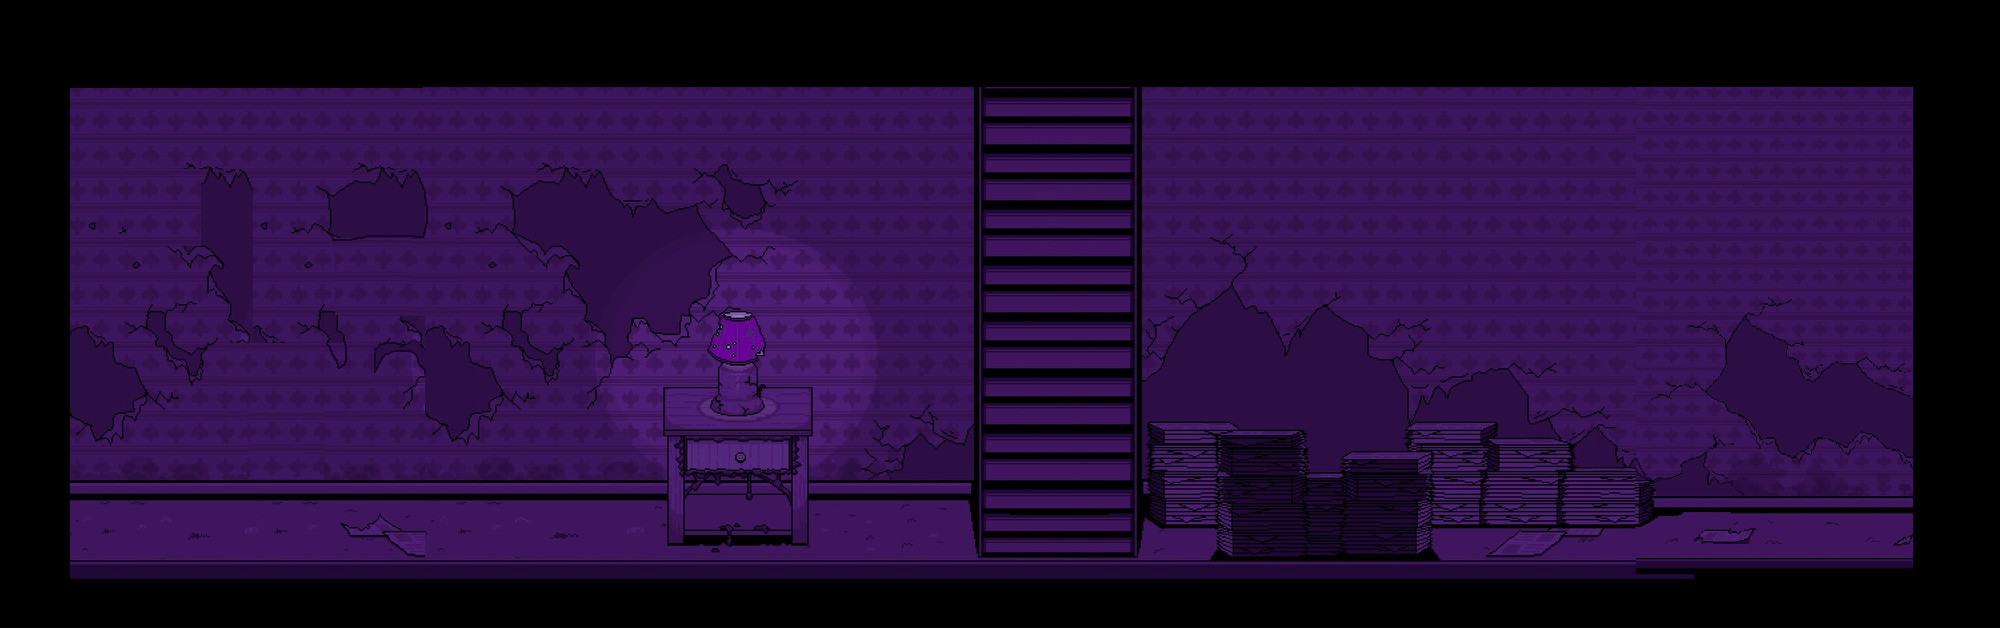
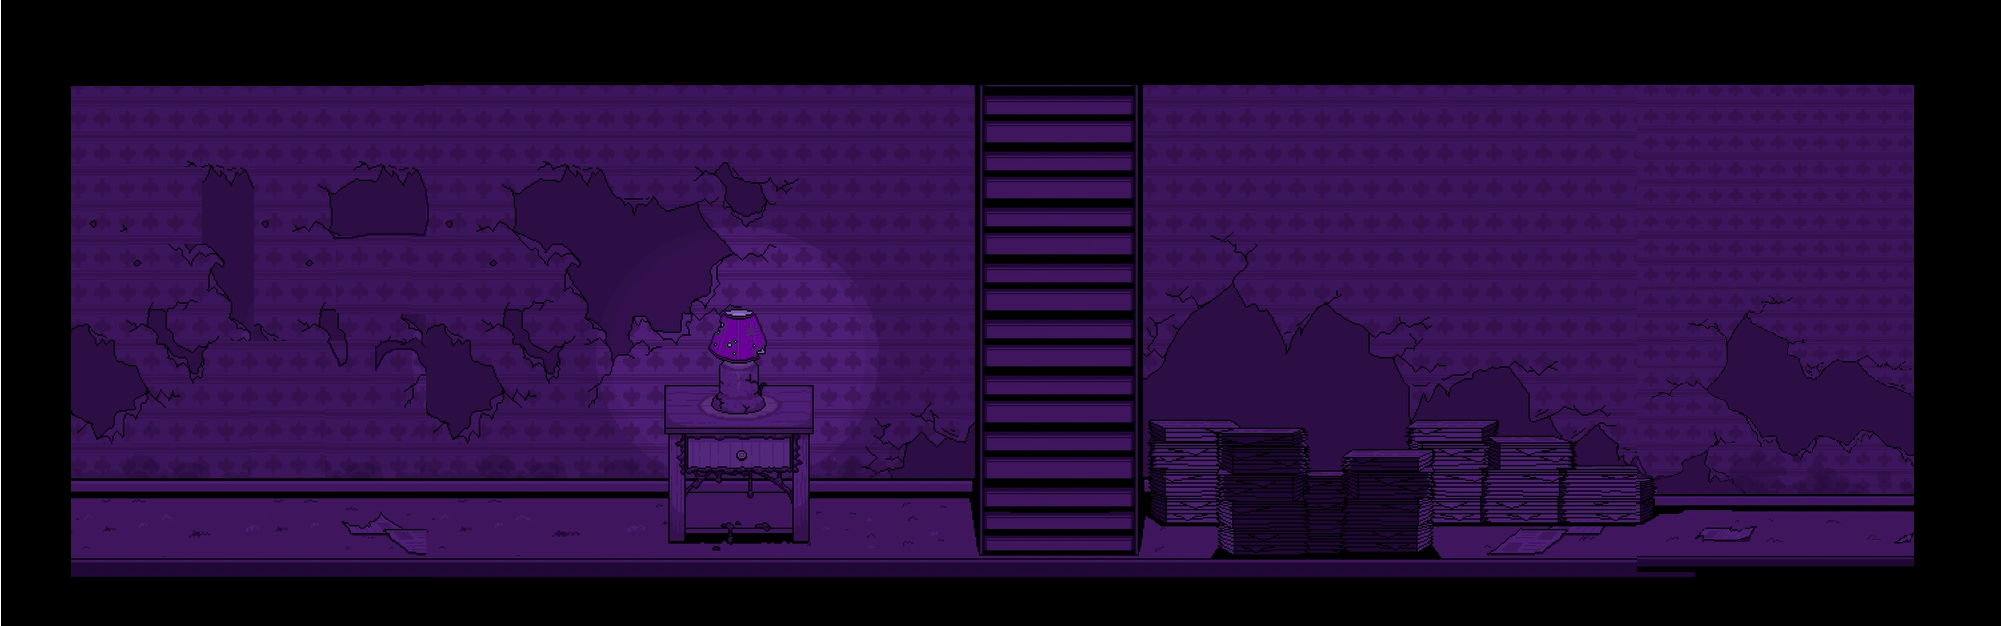
이미지 조정 및 코드 수정

diff --git a/maincode.py b/maincode.py
@@ -12,7 +12,27 @@ class Hall:
         self.image.draw(1400 // 2 - camera_x, 800 // 2-camera_y, self.scaled_width, self.scaled_height)
 
 
-class ExtraImage:
+class Image1:
+    def __init__(self):
+        self.image = load_image('start room1.png')
+        self.width = int(1151*1.2)
+        self.height = int(600*1.2)
+
+    def draw(self, camera_x,camera_y):
+        # Hall 이미지 오른쪽에 추가 이미지가 오도록 위치 조정
+        self.image.draw(1400 // 2 - camera_x - 1000, 800 // 2-camera_y+1000, self.width, self.height)
+
+class Image2:
+    def __init__(self):
+        self.image = load_image('secondroom.png')
+        self.width = int(2000)
+        self.height = int(626)
+
+    def draw(self, camera_x,camera_y):
+        # Hall 이미지 오른쪽에 추가 이미지가 오도록 위치 조정
+        self.image.draw(1400 // 2 - camera_x - 3000, 800 // 2-camera_y, self.width, self.height)
+
+class Image3:
     def __init__(self):
         self.image = load_image('start room1.png')
         self.width = int(1151*1.2)
@@ -26,7 +46,10 @@ class ExtraImage:
 def main():
     open_canvas(1400, 800)  # 1400x600 화면 생성
     hall = Hall()  # Hall 객체 생성
-    extra_image = ExtraImage()  # 추가 이미지 객체 생성
+    extra_image1 = Image1()  # 추가 이미지 객체 생성
+    extra_image2 = Image2()  # 추가 이미지 객체 생성
+    extra_image3 = Image3()  # 추가 이미지 객체 생성
+
 
     camera_x = 0  # 카메라 초기 위치
     camera_y=0
@@ -36,7 +59,8 @@ def main():
 
         # Hall과 추가 이미지를 카메라 위치에 맞춰 그리기
         hall.draw(camera_x,camera_y)
-        extra_image.draw(camera_x,camera_y)
+        extra_image1.draw(camera_x,camera_y)
+        extra_image2.draw(camera_x, camera_y)
 
         update_canvas()
 

diff --git a/pythonProject/boy.py b/pythonProject/boy.py
@@ -1,0 +1,4 @@
+class Idle:
+    @staticmethod
+    def enter():
+        pass
